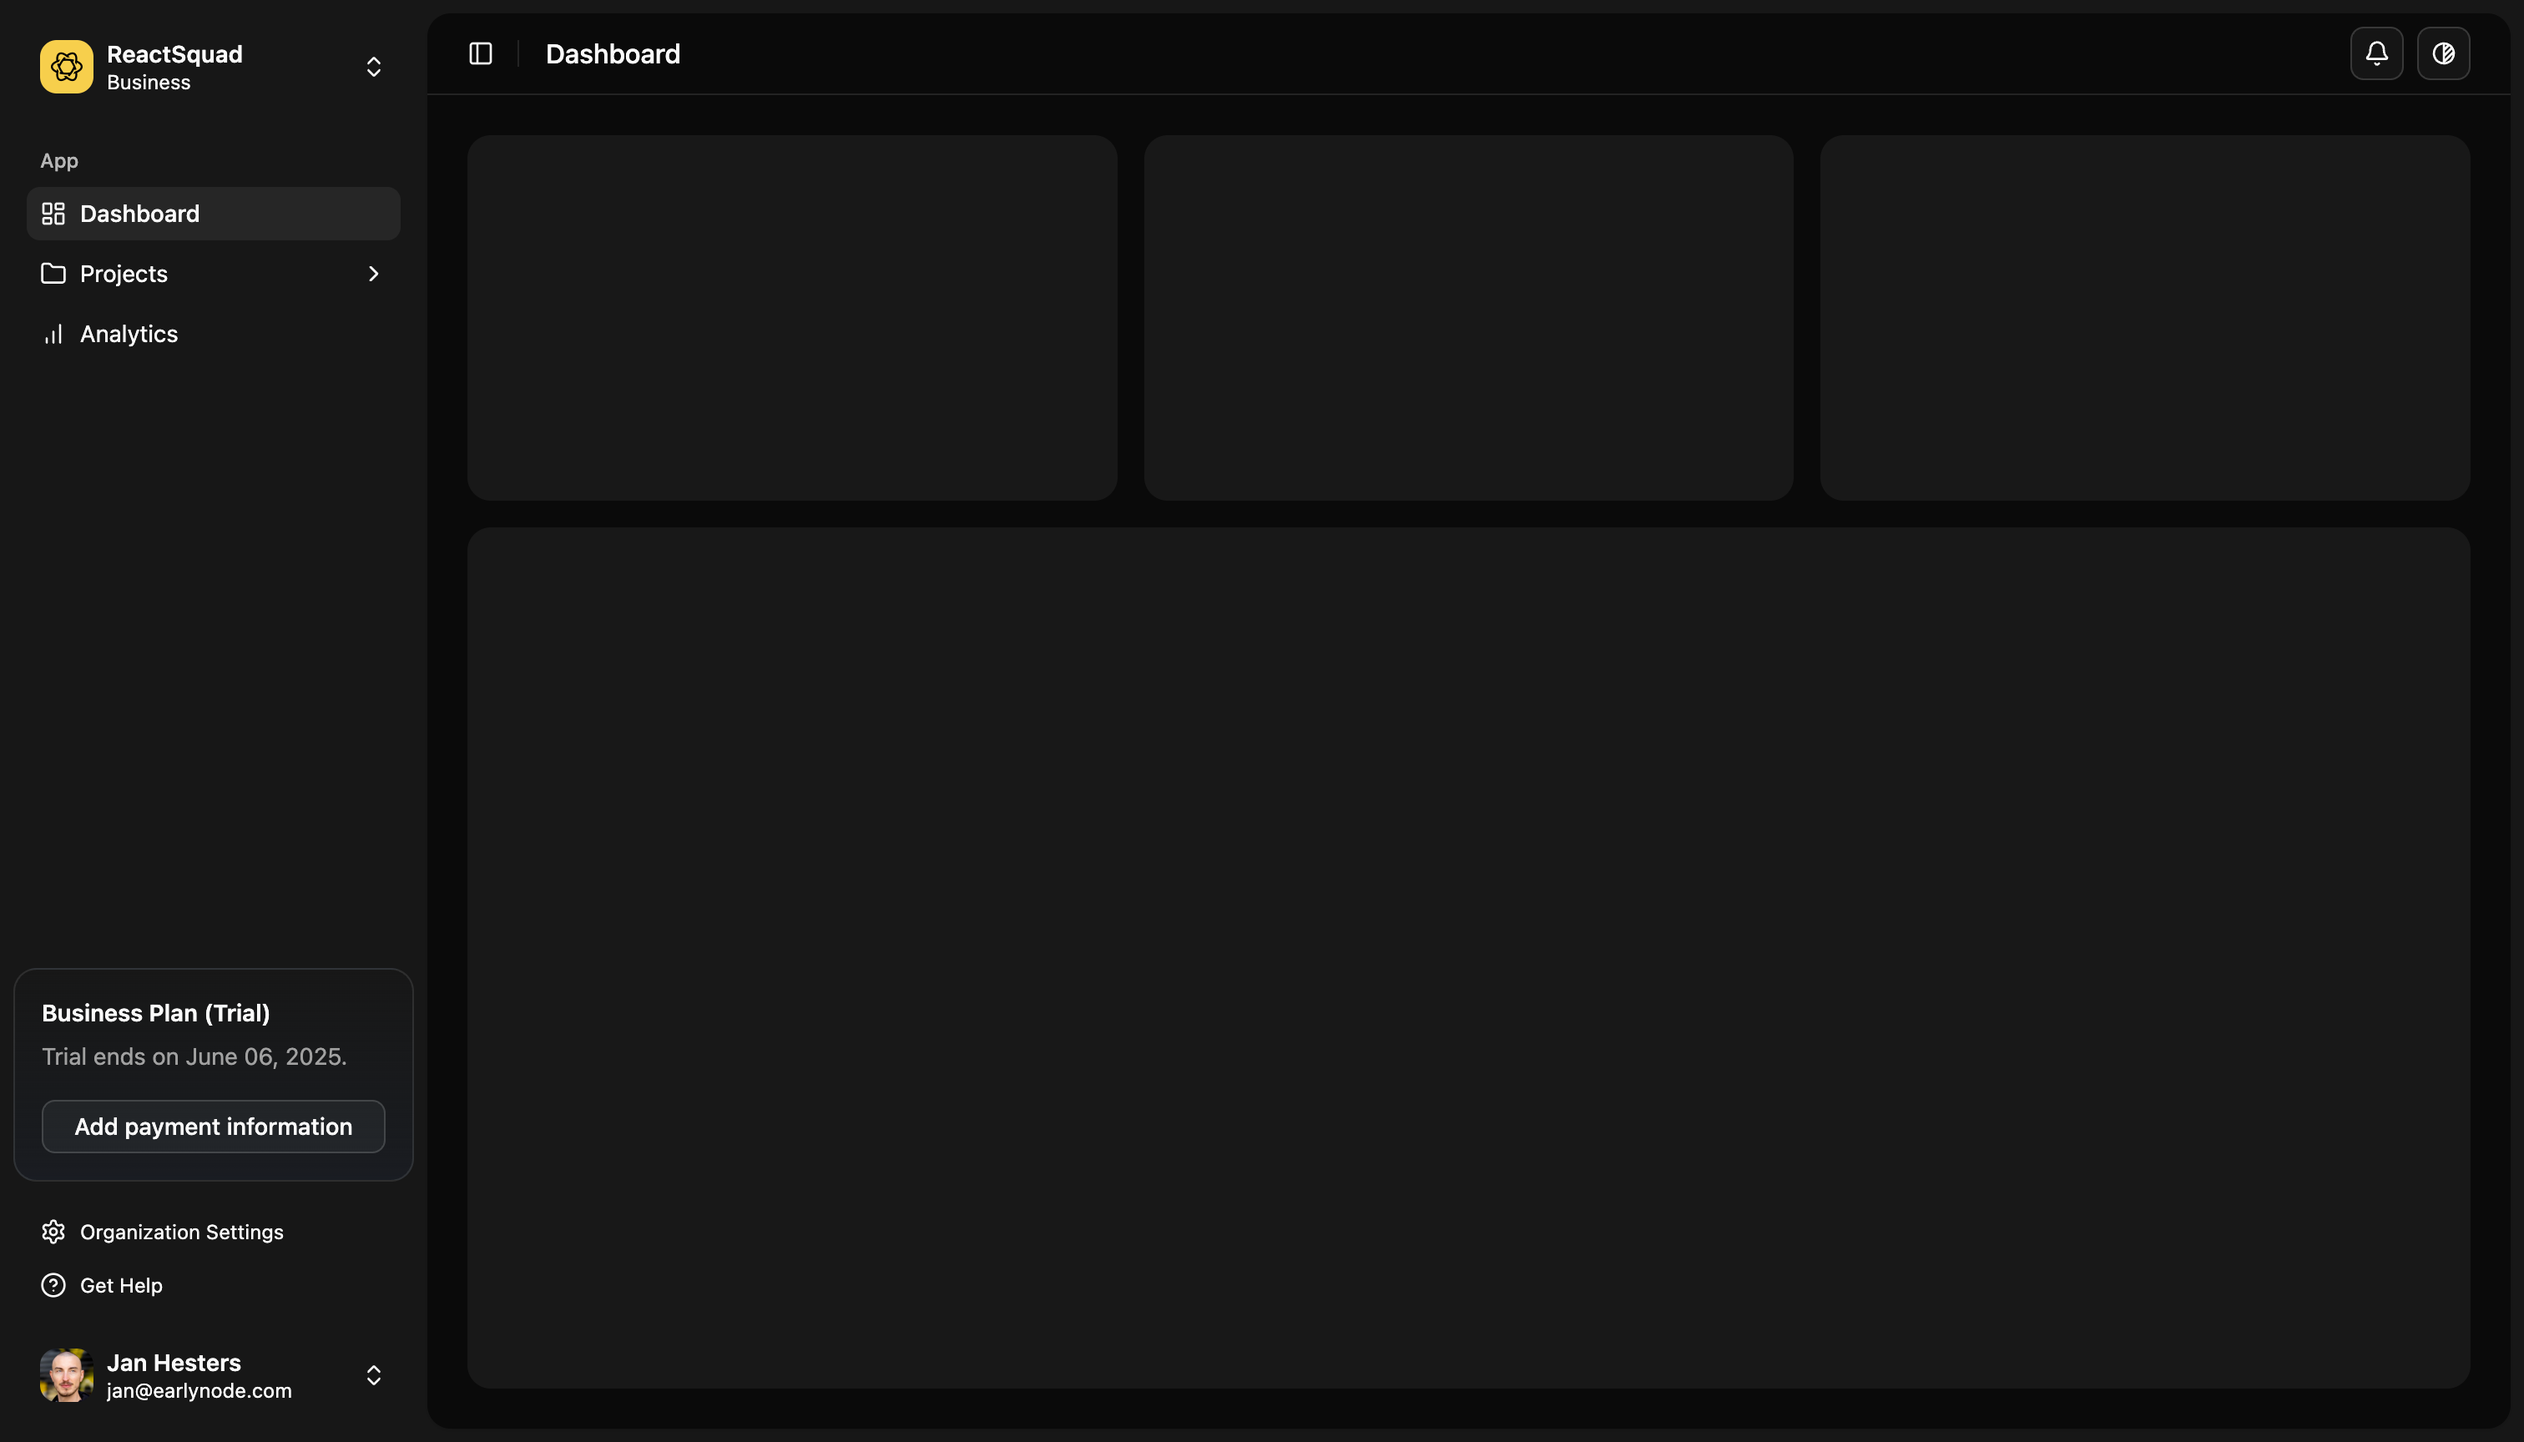
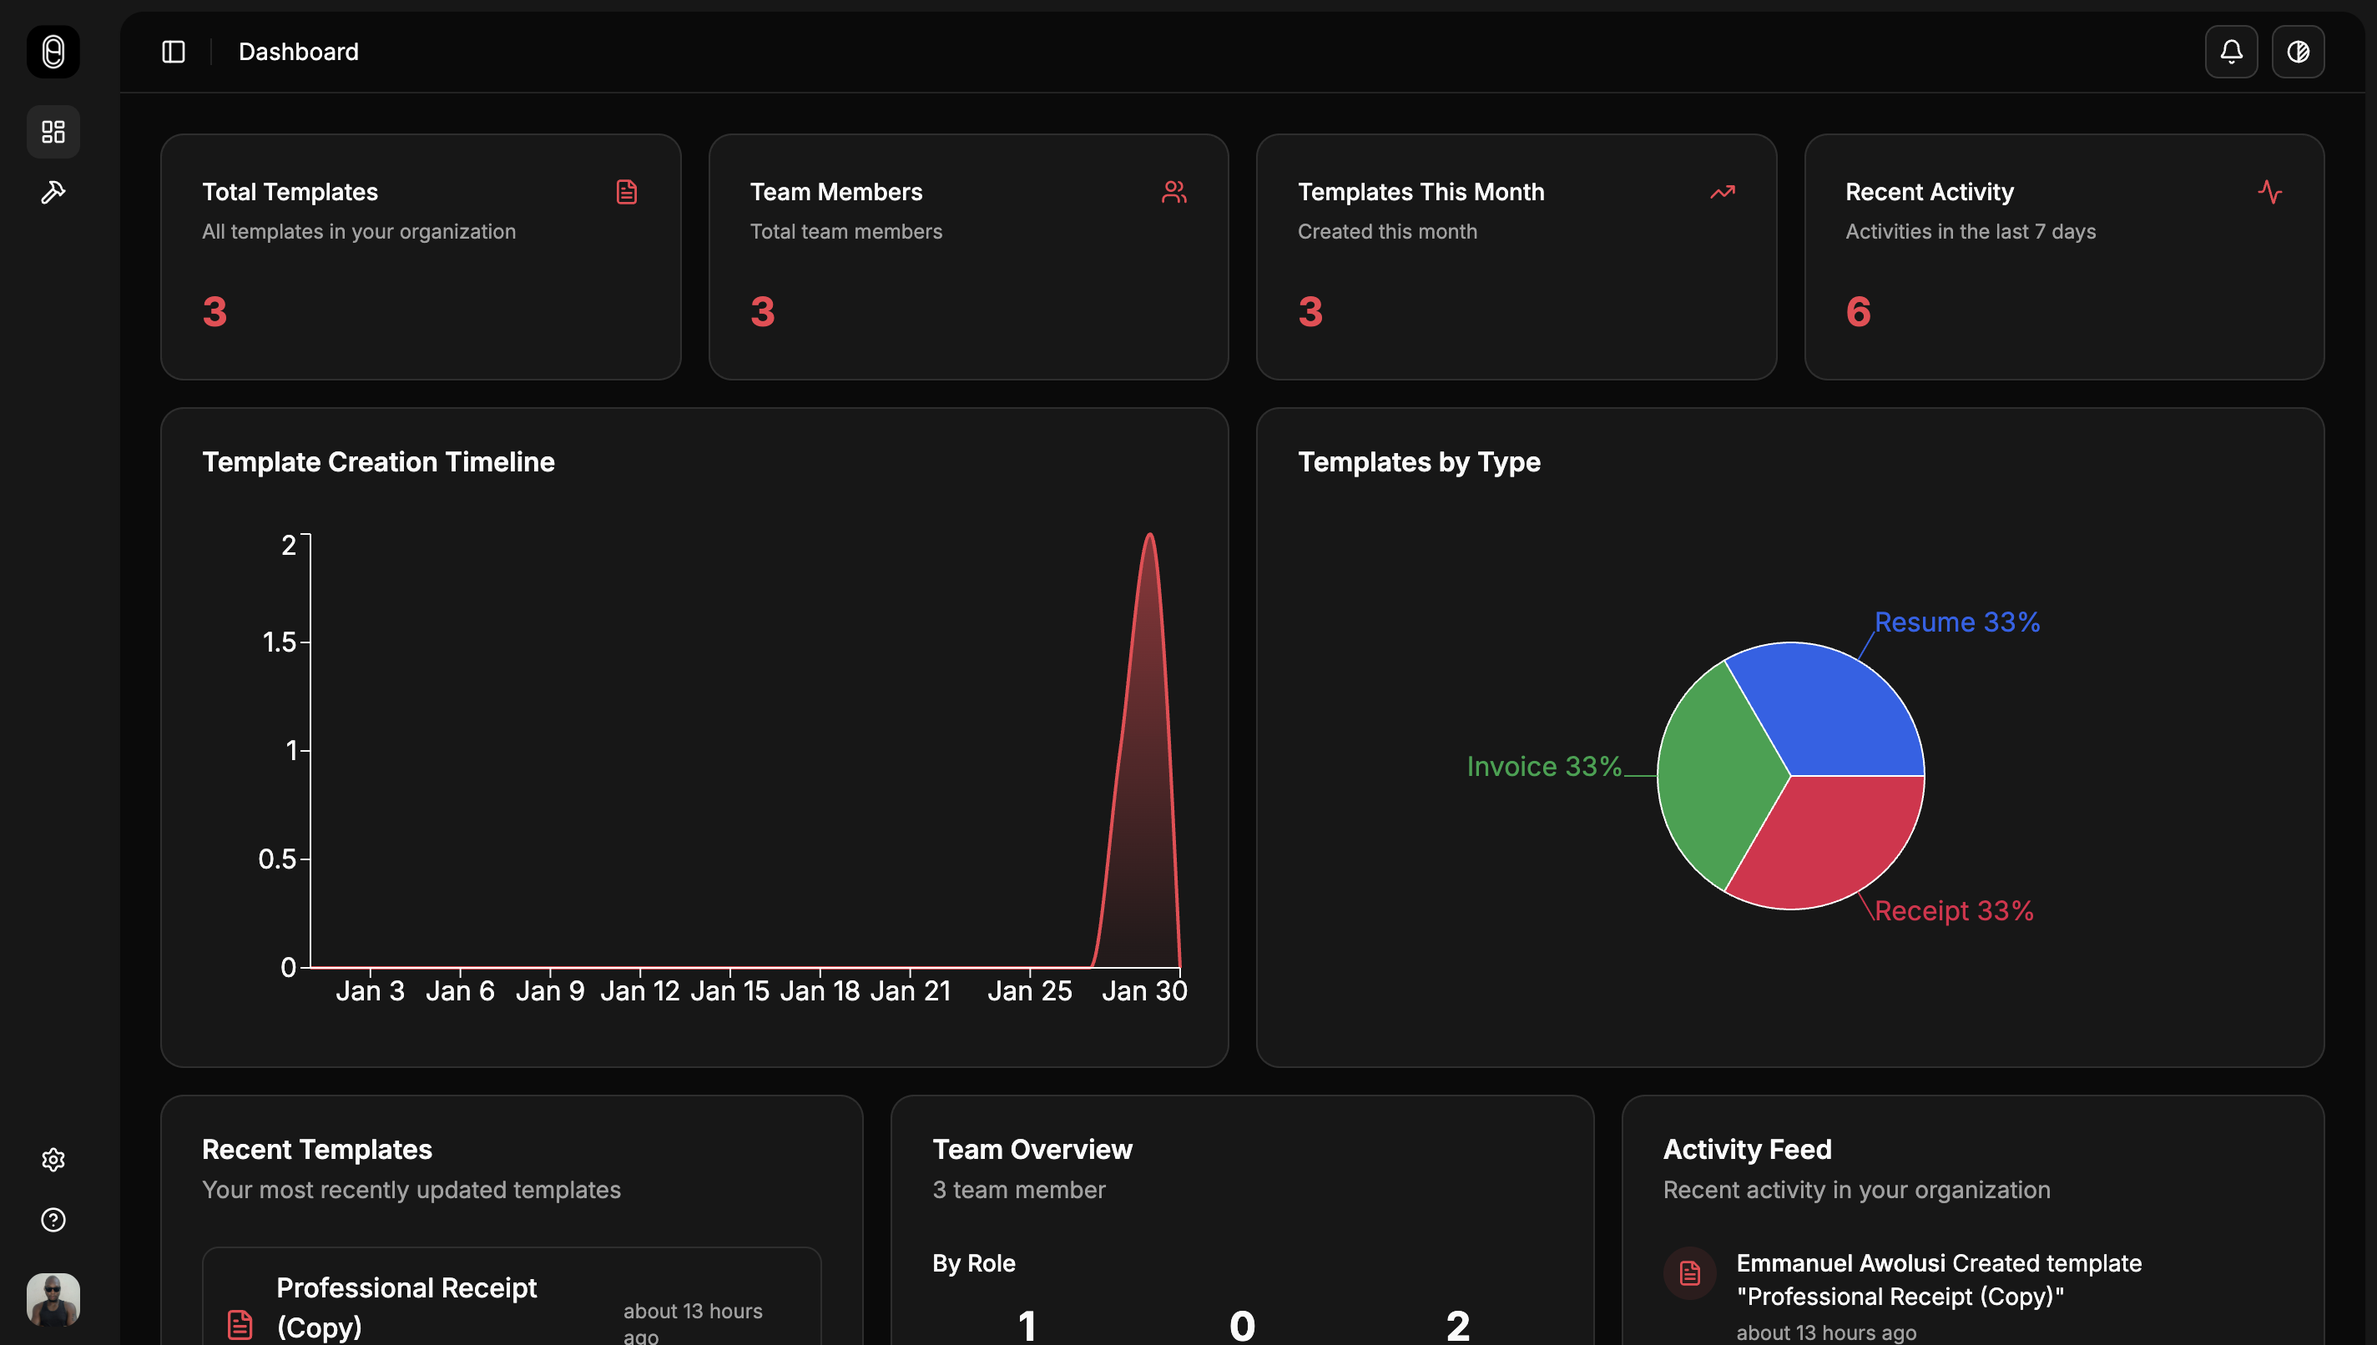
feat(dashboard): enhance template stats chart with dynamic color updates
- Introduce foreground color state management to improve chart visibility based on theme changes.
- Implement color updates for primary and foreground colors using temporary elements to fetch computed styles.
- Add observers for manual and system theme changes to ensure real-time updates of chart colors.
- Remove outdated notification images to streamline asset management.

diff --git a/app/features/organizations/dashboard/template-stats-chart.tsx b/app/features/organizations/dashboard/template-stats-chart.tsx
@@ -24,23 +24,76 @@ export function TemplateStatsChartComponent({
   });
   const containerRef = useRef<HTMLDivElement>(null);
   const [primaryColor, setPrimaryColor] = useState("hsl(221.2, 83.2%, 53.3%)");
+  const [foregroundColor, setForegroundColor] = useState("hsl(0, 0%, 0%)");
 
   useEffect(() => {
-    if (containerRef.current) {
+    const updateColors = () => {
       // Create a temporary element to get computed primary color
-      const tempEl = document.createElement("div");
-      tempEl.className = "text-primary";
-      tempEl.style.position = "absolute";
-      tempEl.style.visibility = "hidden";
-      document.body.appendChild(tempEl);
+      const tempElPrimary = document.createElement("div");
+      tempElPrimary.className = "text-primary";
+      tempElPrimary.style.position = "absolute";
+      tempElPrimary.style.visibility = "hidden";
+      document.body.appendChild(tempElPrimary);
 
-      const computedColor = getComputedStyle(tempEl).color;
-      document.body.removeChild(tempEl);
+      const computedPrimaryColor = getComputedStyle(tempElPrimary).color;
+      document.body.removeChild(tempElPrimary);
 
-      if (computedColor && computedColor !== "rgba(0, 0, 0, 0)") {
-        setPrimaryColor(computedColor);
+      if (computedPrimaryColor && computedPrimaryColor !== "rgba(0, 0, 0, 0)") {
+        setPrimaryColor(computedPrimaryColor);
       }
+
+      // Create a temporary element to get computed foreground color
+      const tempElForeground = document.createElement("div");
+      tempElForeground.className = "text-foreground";
+      tempElForeground.style.position = "absolute";
+      tempElForeground.style.visibility = "hidden";
+      document.body.appendChild(tempElForeground);
+
+      const computedForegroundColor = getComputedStyle(tempElForeground).color;
+      document.body.removeChild(tempElForeground);
+
+      if (
+        computedForegroundColor &&
+        computedForegroundColor !== "rgba(0, 0, 0, 0)"
+      ) {
+        setForegroundColor(computedForegroundColor);
+      }
+    };
+
+    updateColors();
+
+    // Listen for manual theme changes (class changes on html element)
+    const observer = new MutationObserver(() => {
+      updateColors();
+    });
+
+    observer.observe(document.documentElement, {
+      attributes: true,
+      attributeFilter: ["class"],
+    });
+
+    // Listen for system theme changes (prefers-color-scheme media query)
+    const mediaQuery = window.matchMedia("(prefers-color-scheme: dark)");
+    const handleMediaChange = () => {
+      updateColors();
+    };
+
+    // Modern browsers
+    if (mediaQuery.addEventListener) {
+      mediaQuery.addEventListener("change", handleMediaChange);
+    } else {
+      // Fallback for older browsers
+      mediaQuery.addListener(handleMediaChange);
     }
+
+    return () => {
+      observer.disconnect();
+      if (mediaQuery.removeEventListener) {
+        mediaQuery.removeEventListener("change", handleMediaChange);
+      } else {
+        mediaQuery.removeListener(handleMediaChange);
+      }
+    };
   }, []);
 
   const chartData = data.map((item) => ({
@@ -70,8 +123,8 @@ export function TemplateStatsChartComponent({
               </linearGradient>
             </defs>
             <CartesianGrid stroke="hsl(var(--muted))" strokeDasharray="3 3" />
-            <XAxis dataKey="date" stroke="hsl(var(--muted-foreground))" />
-            <YAxis stroke="hsl(var(--muted-foreground))" />
+            <XAxis dataKey="date" stroke={foregroundColor} />
+            <YAxis stroke={foregroundColor} />
             <Tooltip
               contentStyle={{
                 backgroundColor: "hsl(var(--card))",
